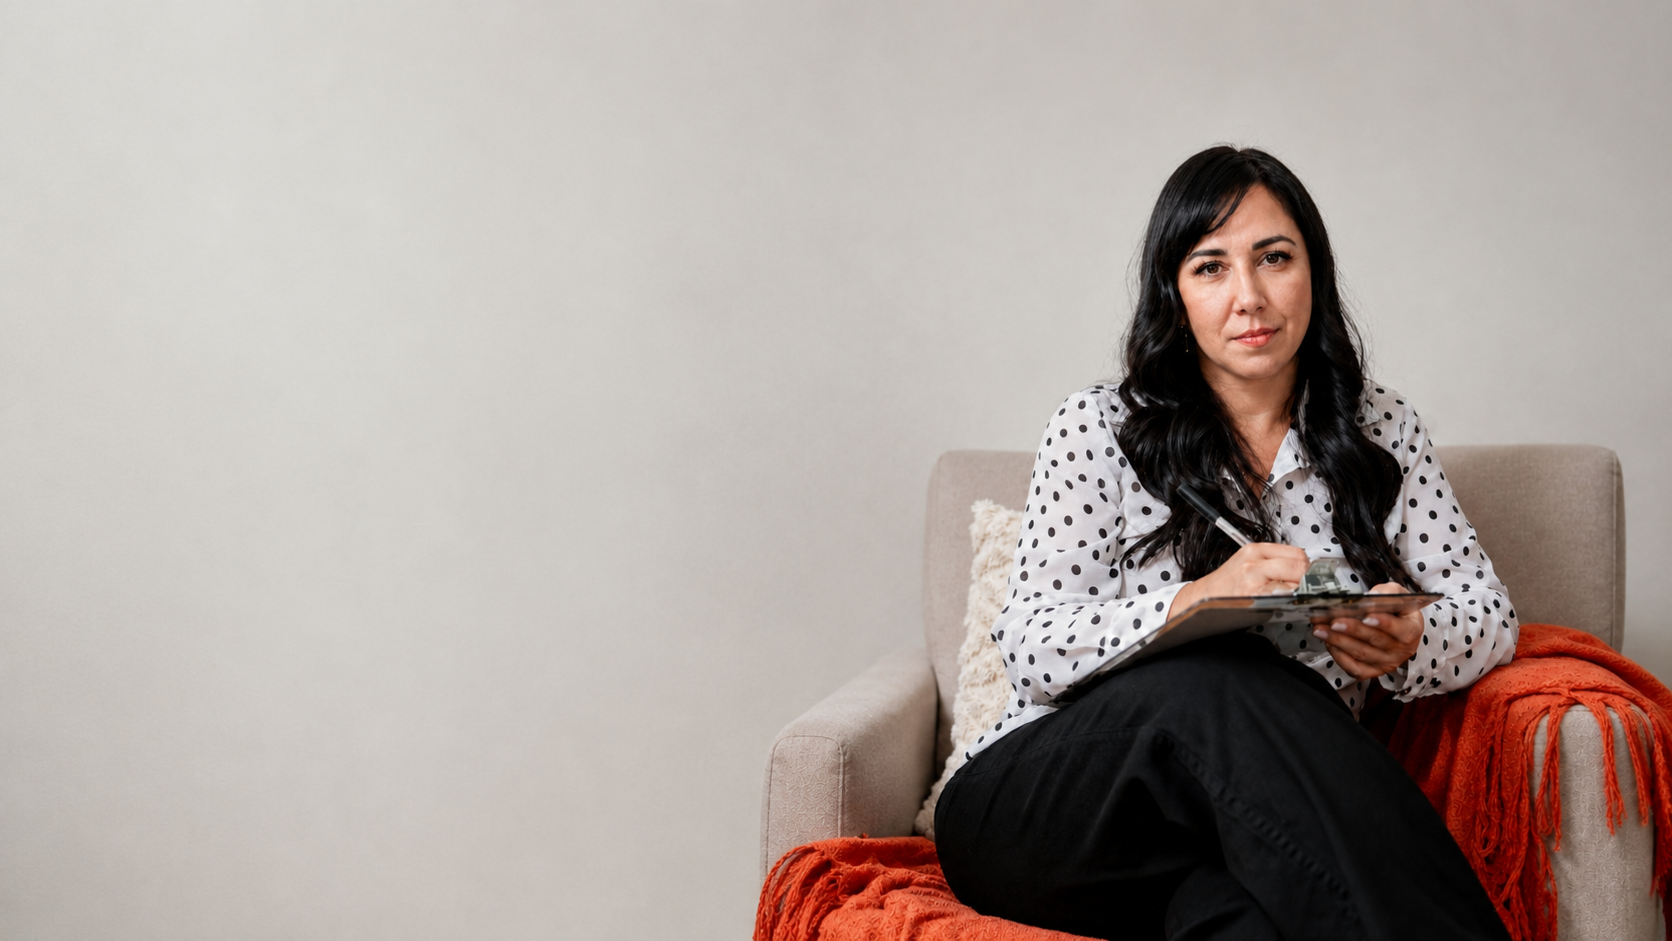
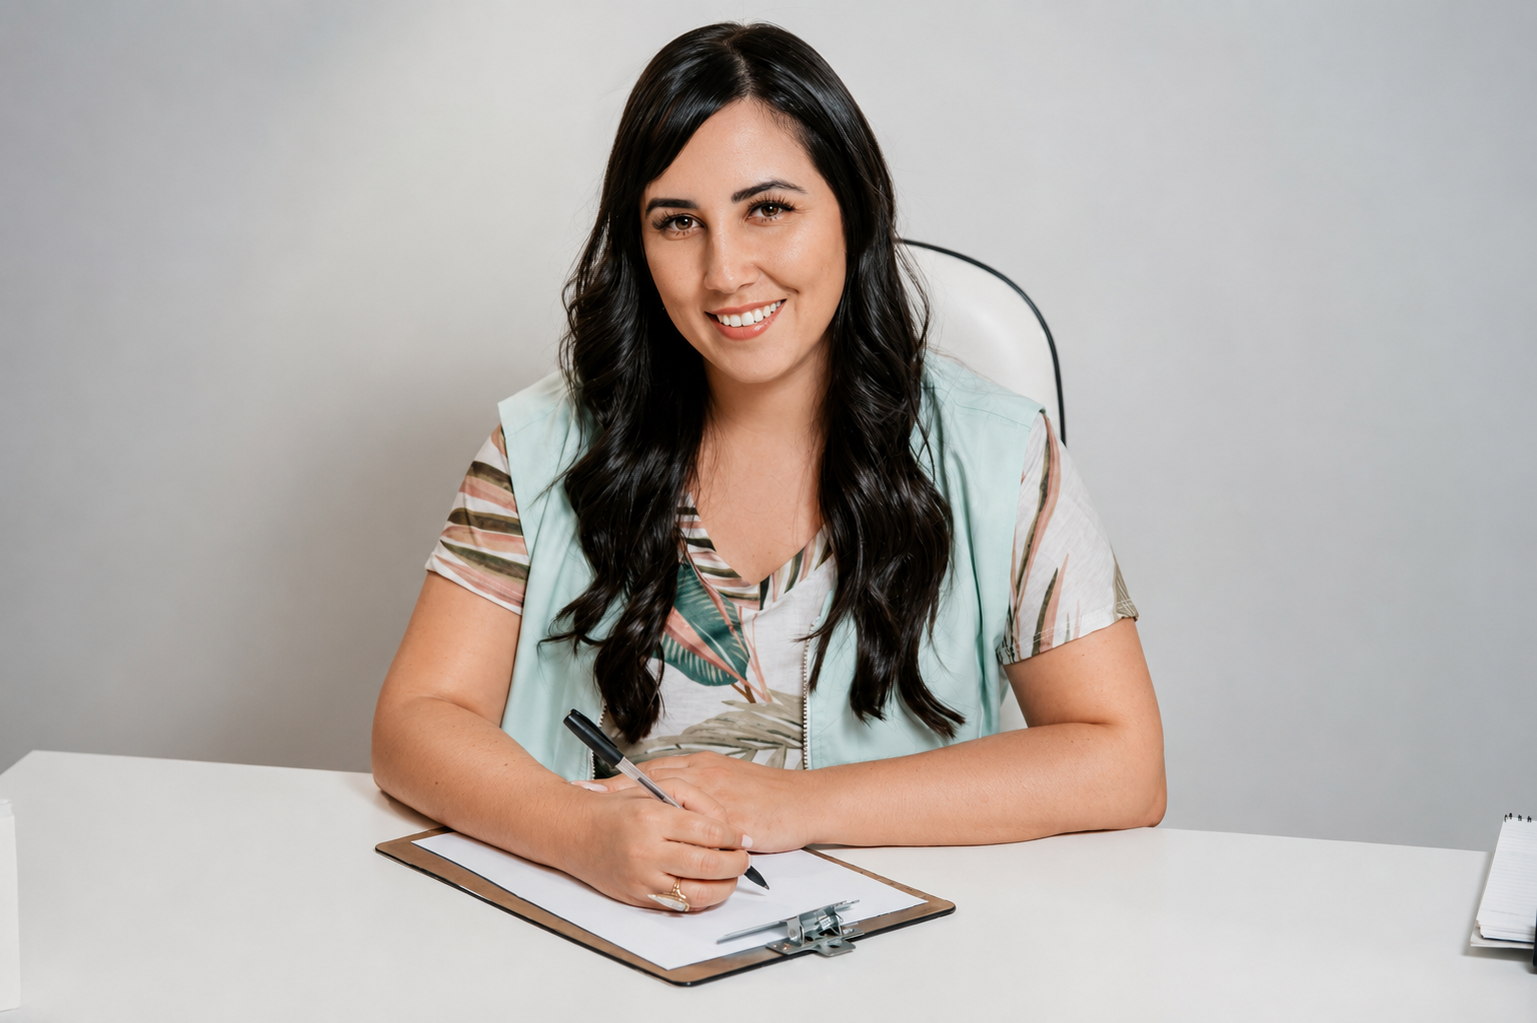
Atualiza hero mobile e foto da Danielle

diff --git a/components/sections/Hero.tsx b/components/sections/Hero.tsx
@@ -16,26 +16,25 @@ export function Hero() {
         priority
         quality={96}
         sizes="100vw"
-        className="object-cover object-[82%_center] sm:object-[66%_center] lg:object-center"
+        className="object-cover object-[50%_center] sm:object-[50%_center] lg:object-center"
       />
 
-      <div className="absolute inset-0 bg-gradient-to-t from-blush-light via-blush-light/55 to-transparent sm:from-blush-light/95 sm:via-blush-light/45 lg:bg-gradient-to-r lg:from-blush-light lg:from-0% lg:via-blush-light/92 lg:via-34% lg:to-transparent lg:to-70%" />
-      <div className="absolute inset-0 bg-gradient-to-b from-white/35 via-transparent to-white/10" />
+      {/* Mobile: preserve Danielle's portrait visibility. Desktop keeps the premium left-to-right fade. */}
+      <div className="absolute inset-0 bg-[linear-gradient(to_bottom,rgba(253,246,247,.16)_0%,rgba(253,246,247,.08)_30%,rgba(253,246,247,.42)_64%,rgba(253,246,247,.94)_100%)] sm:bg-gradient-to-t sm:from-blush-light/95 sm:via-blush-light/40 sm:to-transparent lg:bg-gradient-to-r lg:from-blush-light lg:from-0% lg:via-blush-light/92 lg:via-34% lg:to-transparent lg:to-70%" />
+      <div className="absolute inset-0 bg-gradient-to-b from-white/10 via-transparent to-transparent sm:from-white/20" />
 
-      <div className="relative mx-auto flex min-h-[100svh] max-w-[1440px] items-end px-5 pb-12 pt-28 sm:px-8 lg:items-center lg:px-12 lg:pb-0 xl:px-16">
+      <div className="relative mx-auto flex min-h-[100svh] max-w-[1440px] items-end px-5 pb-8 pt-24 sm:px-8 sm:pb-12 sm:pt-28 lg:items-center lg:px-12 lg:pb-0 xl:px-16">
         <div className="max-w-[690px] lg:w-[52%] lg:pt-14">
-          
-
-          <h1 className="hero-title mt-7 max-w-3xl font-display text-[clamp(3.15rem,6.8vw,7rem)] leading-[0.89] tracking-[-0.045em]">
+          <h1 className="hero-title mt-5 max-w-3xl font-display text-[clamp(2.65rem,12vw,4.25rem)] leading-[0.92] tracking-[-0.045em] sm:mt-7 sm:text-[clamp(3.15rem,6.8vw,7rem)] sm:leading-[0.89]">
             <span className="block text-charcoal">{hero.tituloDestaque}</span>
-            <span className="mt-2 block font-normal italic text-rose-deep">{hero.tituloResto}</span>
+            <span className="mt-1 block font-normal italic text-rose-deep sm:mt-2">{hero.tituloResto}</span>
           </h1>
 
-          <p className="mt-8 max-w-xl border-l border-rose/45 pl-5 text-sm leading-7 text-charcoal/70 sm:mt-10 sm:pl-7 sm:text-base sm:leading-8">
+          <p className="mt-6 max-w-xl border-l border-rose/45 pl-4 text-[0.95rem] leading-6 text-charcoal/75 sm:mt-10 sm:pl-7 sm:text-base sm:leading-8">
             {hero.subtitulo}
           </p>
 
-          <div className="mt-9 flex flex-col gap-3 sm:flex-row sm:items-center">
+          <div className="mt-7 flex flex-col gap-3 sm:mt-9 sm:flex-row sm:items-center">
             <Button href={whatsappHref()} external>{ctas.agendar}</Button>
             <Button href="#sobre" variant="outline">{ctas.conhecer}<ArrowDownRight className="h-4 w-4" /></Button>
           </div>
